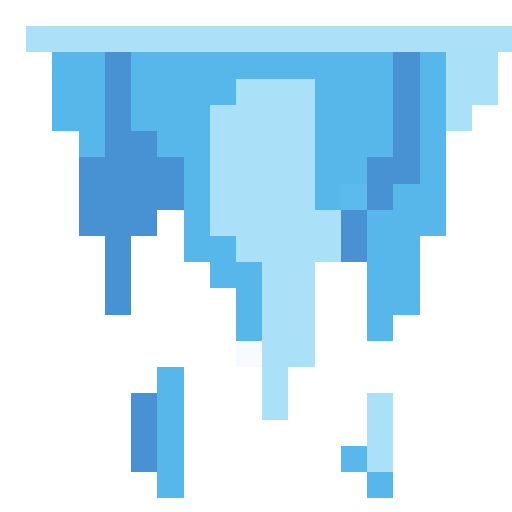
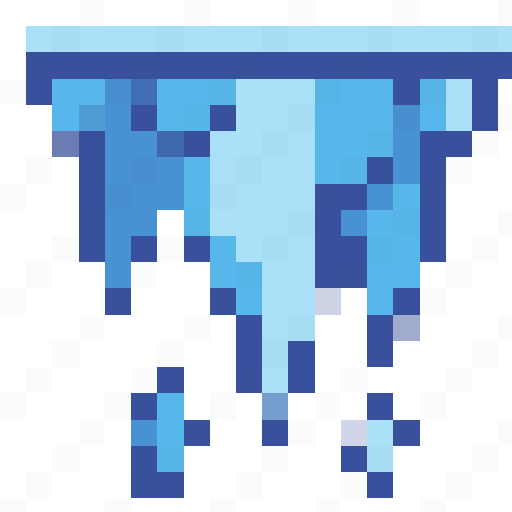
fix displaying hps after restart and use different icicle image

diff --git a/game.js b/game.js
@@ -153,12 +153,14 @@ function setInitialState() {
   time = 0;
   lastTime = 0;
   keys = {};
+  HP = 5;
 
   player.x = 120;
   player.y = GROUND;
   player.dx = 0;
   player.dy = 0;
   player.onGround = true;
+  player.isFacingLeft = false;
 }
 
 setInitialState();
@@ -374,8 +376,10 @@ function displayMessage(text, color) {
   ctx.font = "7rem Public Pixel";
   ctx.fillStyle = color;
   ctx.textAlign = "center";
-
   ctx.fillText(text, canvas.width / 2, canvas.height / 2);
+  ctx.strokeStyle = "black";
+  ctx.lineWidth = 5;
+  ctx.strokeText(text, canvas.width / 2, canvas.height / 2);
 }
 
 function checkWinCondition() {
@@ -400,7 +404,9 @@ function updateStats() {
   let timeLimit = document.getElementById("timeDisplay");
   timeLimit.innerText = `⏱ Time: ${TIME_LIMIT - time}`;
 
-  if (TIME_LIMIT - time < 10) {
+  if (TIME_LIMIT - time > 5) {
+    timeLimit.style = "color: white";
+  } else {
     timeLimit.style = "color: red";
   }
 
@@ -441,7 +447,8 @@ function gameLoop(timestamp) {
   }
 
   if (timestamp - lastFrameTime > FRAME_DELAY) {
-    FRAME = (FRAME + 1) % 4;
+    let maxFrame = player.dx === 0 ? 4 : 6;
+    FRAME = (FRAME + 1) % maxFrame;
     lastFrameTime = timestamp;
   }
 
@@ -475,15 +482,14 @@ function restartGame() {
   gameRunning = false;
   const loadingOverlay = document.getElementById("loadingOverlay");
   loadingOverlay.style.display = "block";
+  cancelAnimationFrame(gameLoop);
   delay(1000).then(() => {
     document.getElementById("restartButton").blur();
     setInitialState();
     rerenderItems();
     updateStats();
     loadingOverlay.style.display = "none";
-    cancelAnimationFrame(gameLoop);
-    gameRunning = true;
-    HP = 5;
+    displayHP();
     requestAnimationFrame(gameLoop);
     gameLoop();
   });
